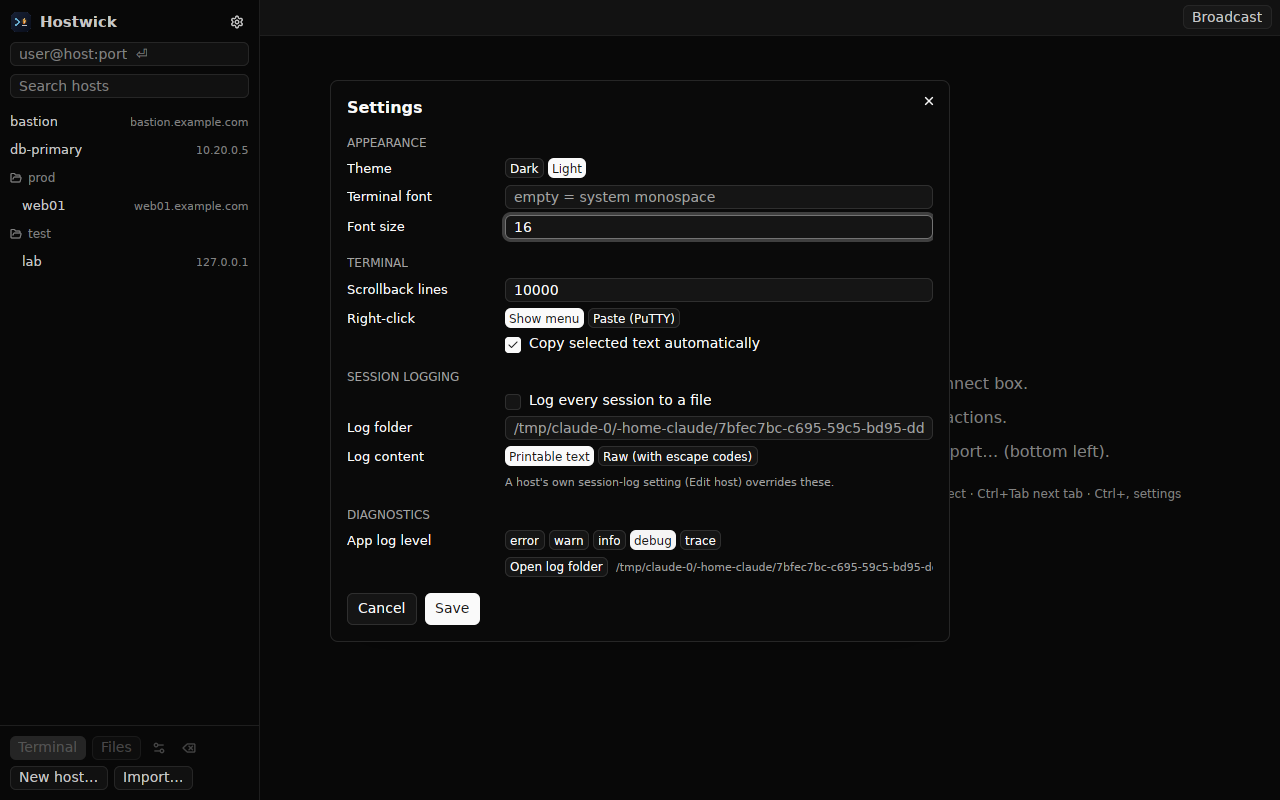
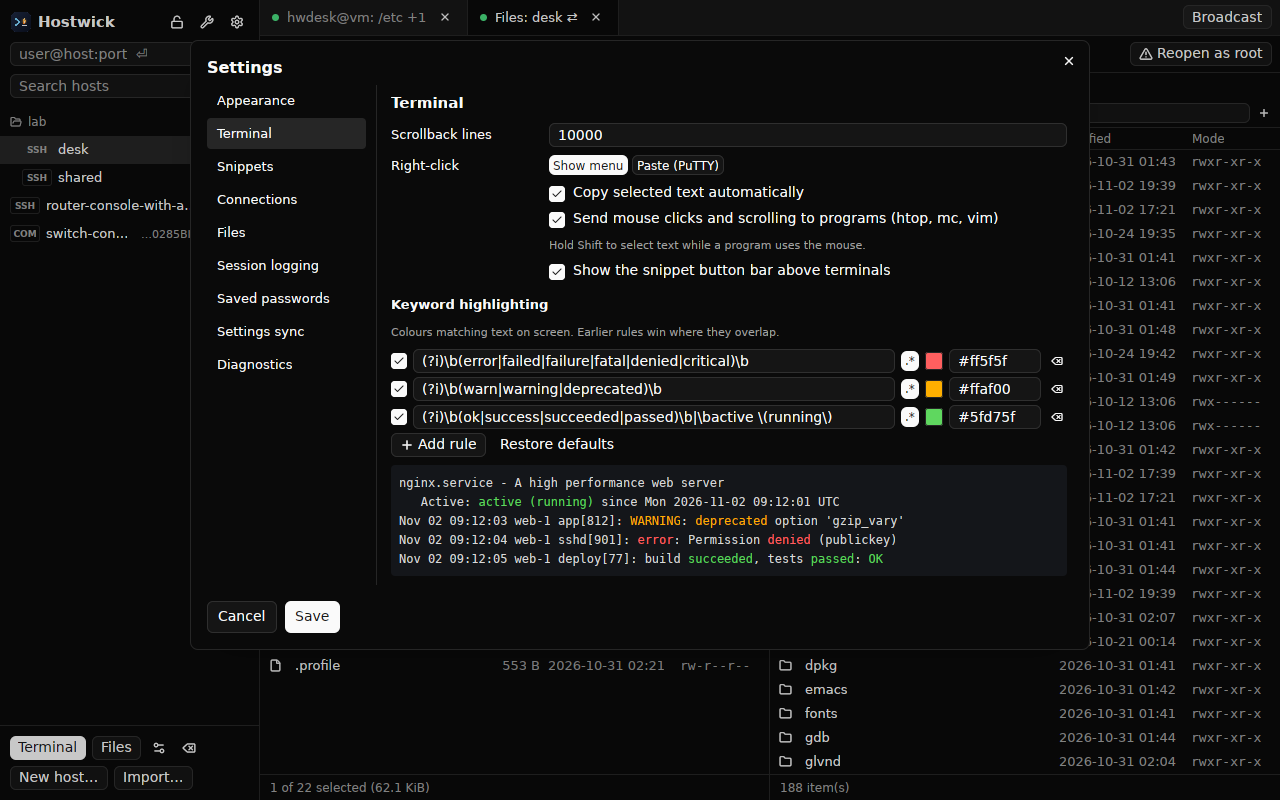
docs: desktop saved passwords, reconnect, splits, tools; new screenshots

diff --git a/README.md b/README.md
@@ -213,17 +213,66 @@ Like WinSCP's *Synchronize* and *Keep remote directory up to date*:
 cargo run --release -p hostwick-desktop
 ```
 
-Sidebar with saved hosts (folders, search, quick connect), terminal and file
-tabs, a transfer queue with progress and cancel, and broadcast input to every
-open terminal. Host-key, password, passphrase and MFA prompts appear as dialogs.
+Sidebar with saved hosts (folders, search, quick connect, an SSH/TEL/COM badge
+per host), terminal and file tabs with split panes, a transfer queue with
+progress and cancel, and broadcast input to every open terminal. Host-key,
+password, passphrase and MFA prompts appear as dialogs.
+
+**Saved passwords.** Password, key-passphrase, sudo and proxy prompts have a
+*Remember* checkbox. The first time, Hostwick offers to create a vault (a
+master password with a strength hint; the same encrypted `vault.json` the
+`hostwick vault` command uses); later it asks once per session to unlock it,
+then logs in by itself. A secret is saved only after the server accepted it.
+If a saved password stops working, Hostwick asks again (with *Update the saved
+password* ticked) instead of failing or looping. Settings → *Saved passwords*:
+lock now, auto-lock after N idle minutes, change the master password, and
+remove saved entries (listed by host and purpose, never shown). Key
+passphrases are saved per key file, so every host using the key benefits.
+The lock icon in the sidebar header shows (and locks) an unlocked vault.
+
+**Auto-reconnect.** When an SSH or telnet connection drops (not when you type
+`exit`), the terminal shows *Connection lost. Reconnecting in 5 s… [Now]
+[Cancel]* and retries after 1, 2, 5, 10, then every 30 seconds, keeping the
+scrollback (a `── reconnected 12:01:02 ──` line marks the spot) and running
+the login script again. It stops at a login or host-key failure.
+Settings → Connections turns it off.
+
+**Restore tabs.** Open tabs (with their split layout) come back at the next
+start; each connects when you first switch to it, so starting Hostwick is not
+a storm of password prompts. Quick-connect tabs are restored from their
+`user@host:port`.
+
+**Split panes** (MobaXterm/Tabby style): Ctrl+Shift+D splits the current
+terminal to the right, Ctrl+Shift+E downwards (⌘D / ⌘⇧D on macOS), also from
+the terminal and tab menus. Splits nest; drag the dividers; click a pane (or
+Alt+arrow) to focus it; Ctrl+Shift+W closes the focused pane, then the tab.
+A new pane opens the same host over the same SSH connection. Broadcast input
+reaches every pane.
+
+**Files follow the terminal.** Right-click a terminal → *Open files here*
+opens the file browser at the shell's current folder and keeps following it
+as you `cd` (*Following terminal* in the toolbar or the tab menu turns it
+off). The folder comes from OSC 7; turn on *Shell integration* in Edit host →
+Terminal for bash/zsh.
+
+**Tools** (wrench icon): *Generate key…* (Ed25519, ECDSA, RSA 2048–4096;
+OpenSSH or PuTTY `.ppk` v3/v2; fingerprint, randomart, public key with Copy,
+and *Use in host…*), *Inspect or convert key…* (format, type, fingerprint;
+change or remove the passphrase; convert OpenSSH ↔ PPK), *Known hosts…*
+(search, remove selected lines or every key of a host), *Saved passwords…*
+and *Settings sync…*.
+
+**Notifications** for things the connection wants you to know without
+stopping: X11 not available, touch your security key, a key file that could
+not be used, a saved forward that failed (repeats are suppressed).
 
 **Right-click everywhere**
 
 | Where | Menu |
 |---|---|
 | Saved host | Open terminal, Open files, Edit…, Duplicate, Copy address, Delete… |
-| Tab | Reconnect, Duplicate, Open files/terminal, Close, Close others, Close all |
-| Terminal | Copy, Paste, Select all, Find…, Snippets ▸, Copy current folder, Send break (telnet/serial), Stop script, Clear scrollback, Log session to file… / Stop, Open files (SSH), Duplicate, Reconnect |
+| Tab | Reconnect, Split right/down, Send break (telnet/serial), Follow terminal folder (linked file browser), Duplicate, Open files/terminal, Close, Close others, Close all |
+| Terminal | Copy, Paste, Select all, Find…, Snippets ▸, Copy current folder, Send break (telnet/serial), Stop script, Clear scrollback, Log session to file… / Stop, Open files here / Open files (SSH), Split right, Split down, Duplicate, Reconnect |
 | File | Open, Edit (F4), Upload/Download (F5), Move (F6), Rename… (F2), Delete…, New folder… (F7), New symlink…, Copy path, Refresh, Properties (Alt+Enter) |
 
 **Terminal**
@@ -319,15 +368,31 @@ is remembered per host).
 
 Prefer PuTTY's "right-click pastes"? Settings → Right-click → *Paste (PuTTY)*.
 
-**Host editor** (New host… or right-click → Edit…): name, folder, host, port,
-user, key files (OpenSSH or `.ppk`, with Browse…), jump hosts
-(`user@bastion:22, inner`), port forwards (`L8080:localhost:80 R9000:localhost:3000 D1080`,
-`-L 8080:…` also accepted), keepalive, terminal type, session log, notes and
-legacy algorithms for old devices.
+**Host editor** (New host… or right-click → Edit…), in sections:
+*General* (name, folder, protocol SSH/Telnet/Serial — switching adjusts the
+fields and the default port —, host and port, or for serial the device with a
+port picker, speed, data bits, parity, stop bits, flow control; notes),
+*Authentication* (key files with Browse…, `-cert.pub` certificates picked up
+automatically, agent, password with its saved state and *Forget*,
+keyboard-interactive, Kerberos single sign-on with ticket forwarding),
+*Connection* (SOCKS5/SOCKS4/HTTP proxy, jump hosts, port forwards
+`L8080:localhost:80 R9000:localhost:3000 D1080`, keepalive, agent forwarding,
+X11 forwarding and display), *Terminal* (terminal type, login script checked
+as you type, shell integration, the host's snippets, session log), *Files*
+(Auto/SFTP/SCP, open as root through sudo, sudo user, sftp-server path) and
+*Advanced* (legacy algorithms). Problems are shown next to the field, and
+Save jumps to the section that needs attention.
 
-**Settings** (gear icon, `Ctrl+,` / `⌘,`): dark/light theme, terminal font and
-size, scrollback, right-click behaviour, copy-on-select, session logging
-defaults, app log level (applies immediately) and *Open log folder*.
+**Settings** (gear icon, `Ctrl+,` / `⌘,`), in sections: *Appearance* (theme,
+terminal font and size), *Terminal* (scrollback, right-click, copy-on-select,
+mouse reporting, button bar, keyword-highlighting rules with regex toggle,
+colour swatch and a live preview), *Snippets* (global), *Connections*
+(auto-reconnect, restore tabs), *Files* (external editor with Browse…),
+*Session logging*, *Saved passwords*, *Settings sync* (folder with Browse…,
+passphrase kept in the vault, Sync now / replace either side, last result;
+syncs at startup, a few seconds after hosts or settings change and every 5
+minutes) and *Diagnostics* (app log level, log folder). Paths, the editor and
+the log level stay per computer; everything else syncs.
 
 **Logging**
 
@@ -347,7 +412,9 @@ always go to the shell):
 |---|---|
 | Ctrl+Shift+N | New host |
 | Ctrl+Shift+T | Duplicate current tab |
-| Ctrl+Shift+W | Close tab |
+| Ctrl+Shift+D / Ctrl+Shift+E (⌘D / ⌘⇧D) | Split the terminal right / down |
+| Alt+←→↑↓ | Move between split panes |
+| Ctrl+Shift+W | Close the focused pane, then the tab |
 | Ctrl+Shift+R | Reconnect |
 | Ctrl+Tab / Ctrl+Shift+Tab | Next / previous tab |
 | Ctrl+Shift+B | Toggle broadcast input |
@@ -359,7 +426,7 @@ always go to the shell):
 | Esc (in the find bar) | Close find |
 | Shift+click / drag | Select text even when a program has the mouse |
 | Ctrl+Break | Send break (telnet, serial) |
-| Enter on an ended session | Reconnect |
+| Enter on an ended session | Reconnect (or reconnect now while waiting) |
 
 When a connection fails, the error lists every authentication method tried and
 why it failed (for example `key work.ppk: wrong passphrase; password: rejected`).
@@ -436,7 +503,15 @@ connection sharing, and a pipelined 24 MiB SFTP round trip.
   password dialogs, colors/CJK/full-screen apps, a 300k-line output flood,
   broadcast input, file browsing, new folder, rename, delete, every
   right-click menu, host editor, settings (theme, font, log level applied
-  live), session logging, import report, shortcuts, reconnect).
+  live), session logging, import report, shortcuts, reconnect). For 0.3:
+  vault create/unlock/remember/auto-login, a changed server password
+  recovered through the *update saved password* prompt, auto-reconnect after
+  killing the server session (and with the server down, then back), no
+  reconnect after `exit`, restored tabs across restarts, splits with
+  broadcast, the file browser following `cd`, every host-editor and settings
+  section in both themes, key generation (the key logs in with OpenSSH) and
+  *Use in host*, known-hosts removal, and settings sync between two
+  `HOSTWICK_HOME`s (hosts and theme).
 - Windows and macOS: not run yet. The code paths are cross-platform and CI
   builds and tests all three OSes; the Windows-only pieces (Pageant/OpenSSH
   agent pipe, registry importers, console VT mode in the CLI) need a first run
@@ -450,8 +525,9 @@ connection sharing, and a pipelined 24 MiB SFTP round trip.
   only hand over files that already exist on disk; local rows work on macOS
   and Wayland).
 
-- The desktop app does not yet unlock the vault (the CLI does); it prompts.
-- OSC 52 clipboard; split panes.
+- Split-pane sizes are not restored (layouts come back evenly split); a
+  restored file browser no longer follows its terminal.
+- OSC 52 clipboard.
 - FTP/S3 adapters behind `RemoteFs`.
 - Native file pickers (upload/download in the desktop app) were not exercised
   headless; the transfer engine behind them is tested.

diff --git a/CHANGELOG.md b/CHANGELOG.md
@@ -2,6 +2,21 @@
 
 ## Unreleased
 
+**Desktop app**
+- Saved passwords: password, key-passphrase, sudo and proxy prompts offer *Remember*; the first save creates a vault (master password with a strength hint), later sessions unlock it once and log in automatically. Uses the CLI's vault file; secrets are stored only after the server accepted them; key passphrases are saved per key file. A saved password that stopped working is asked for again with *Update the saved password* — no loops. Settings → Saved passwords: lock now, auto-lock after idle minutes, change the master password, remove entries.
+- Auto-reconnect when an SSH or telnet connection drops (never after `exit`, a login failure or a host-key problem): 1, 2, 5, 10, then every 30 s, with a *Reconnecting in 5 s… [Now] [Cancel]* banner; the scrollback stays (a marker line shows the reconnect) and the login script runs again. Manual reconnect keeps the scrollback too.
+- Restore tabs at startup, split layout included; restored tabs connect when first shown.
+- Split panes: split right (Ctrl+Shift+D / ⌘D) or down (Ctrl+Shift+E / ⌘⇧D), nested, resizable, focus by click or Alt+arrows, Ctrl+Shift+W closes the focused pane; broadcast reaches every pane.
+- *Open files here*: the file browser opens at the terminal's folder and follows its `cd`s (toggle in the toolbar and tab menu); a hint points to Shell integration when no folder is known.
+- Host editor in sections (General, Authentication, Connection, Terminal, Files, Advanced) exposing every host option: protocol picker (SSH/Telnet/Serial) with serial settings and a port picker, Kerberos, saved-secret state with *Forget*, SOCKS/HTTP proxy, agent and X11 forwarding (display validated), file protocol, sudo, login script validated as you type, shell integration, per-host snippets; problems are shown inline and Save jumps to them.
+- Settings in sections, adding mouse reporting and the button bar, a keyword-highlighting rule editor with live preview, global snippets, auto-reconnect / restore tabs, external editor with Browse…, saved passwords, and settings sync (folder, passphrase kept in the vault, Sync now / push / pull, last result; automatic at startup, after changes and every 5 minutes). Paths and the log level stay per computer.
+- Tools menu: *Generate key…* (OpenSSH or PPK v3/v2, fingerprint, randomart, copy the public key, *Use in host…*), *Inspect or convert key…*, *Known hosts…* (search, remove lines or a host), *Saved passwords…*, *Settings sync…*. Key work runs off the UI thread.
+- Connection notices (X11 unavailable, touch your security key, unusable key files, failed forwards) appear as notifications, de-duplicated and rate-limited.
+- Sidebar: SSH/TEL/COM badge per host, long names and serial device paths truncated with a tooltip; empty-state shortcut hints updated; app shortcuts work before any terminal has focus.
+
+**SSH**
+- `Interaction::secret_outcome` reports whether a password or key passphrase (typed or saved) was accepted; a rejected saved password or passphrase is asked for once instead of skipping the method.
+
 **Terminal**
 - Telnet and serial hosts alongside SSH (new `hostwick-term` crate: one transport interface for all three). Telnet negotiates echo, SGA, binary, terminal type and window size (re-sent on resize), refuses unknown options per RFC 854/1143 without loops, handles `CR NUL`/`CR LF`, echoes locally when the server doesn't, uses TCP keepalive, a connect timeout and the host's proxy. Serial: baud/data/parity/stop bits and flow control, exclusive open, port listing, clear errors for missing, busy and permission-denied ports (the `dialout` hint on Linux) and for an unplugged adapter. Send break (menu, Ctrl+Break) on both. Tab titles name the protocol; Files on a telnet/serial host explains that it needs SSH.
 - Find in scrollback (Ctrl+Shift+F / ⌘F): text or regex, case toggle, `3 of 17`, all visible matches highlighted, Enter/Shift+Enter and F3/Shift+F3, Esc closes. Counting runs off the UI thread in short locked chunks.

diff --git a/docs/ROADMAP.md b/docs/ROADMAP.md
@@ -9,14 +9,14 @@ Tabby, SecureCRT, Bitvise, KiTTY and FileZilla. "Have" = in Hostwick v0.2.0.
 |---|---|---|
 | Tabs, many sessions in one window | everyone except PuTTY | Have |
 | Saved sessions in folders, search | all | Have |
-| Saved passwords / auto-login | Solar-PuTTY, MobaXterm, Termius, WinSCP (master password) | **CLI vault only; desktop prompts every time** |
+| Saved passwords / auto-login | Solar-PuTTY, MobaXterm, Termius, WinSCP (master password) | Have (vault + master password, "Remember" on prompts) |
 | Edit remote file in my editor, auto-upload on save | WinSCP, MobaXterm | **Missing** |
 | Two-pane local/remote browser with drag and drop | WinSCP (Commander), FileZilla, MobaXterm | **Missing** (remote pane + OS dialogs only) |
 | Synchronize with preview, keep remote up to date | WinSCP | Partial (CLI dry-run; desktop "Keep up to date" upload-only) |
-| SFTP panel that follows the terminal's folder | MobaXterm | **Missing** |
-| Auto-reconnect when the link drops | Solar-PuTTY, MobaXterm | Manual only (button, Enter, Ctrl+Shift+R) |
+| SFTP panel that follows the terminal's folder | MobaXterm | Have (Open files here + shell integration) |
+| Auto-reconnect when the link drops | Solar-PuTTY, MobaXterm | Have (backoff, keeps scrollback); tabs restored at startup |
 | Post-login scripts / snippets / button bar | Solar-PuTTY, SecureCRT, Termius, KiTTY | **Missing** |
-| Split panes / tiling | MobaXterm, SecureCRT, Tabby | **Missing** |
+| Split panes / tiling | MobaXterm, SecureCRT, Tabby | Have |
 | Send input to all sessions | MobaXterm, SecureCRT | Have (broadcast) |
 | Search scrollback, keyword highlighting | SecureCRT, MobaXterm, Xshell | **Missing** |
 | Mouse in htop/mc/vim | most modern terminals | **Missing** |
